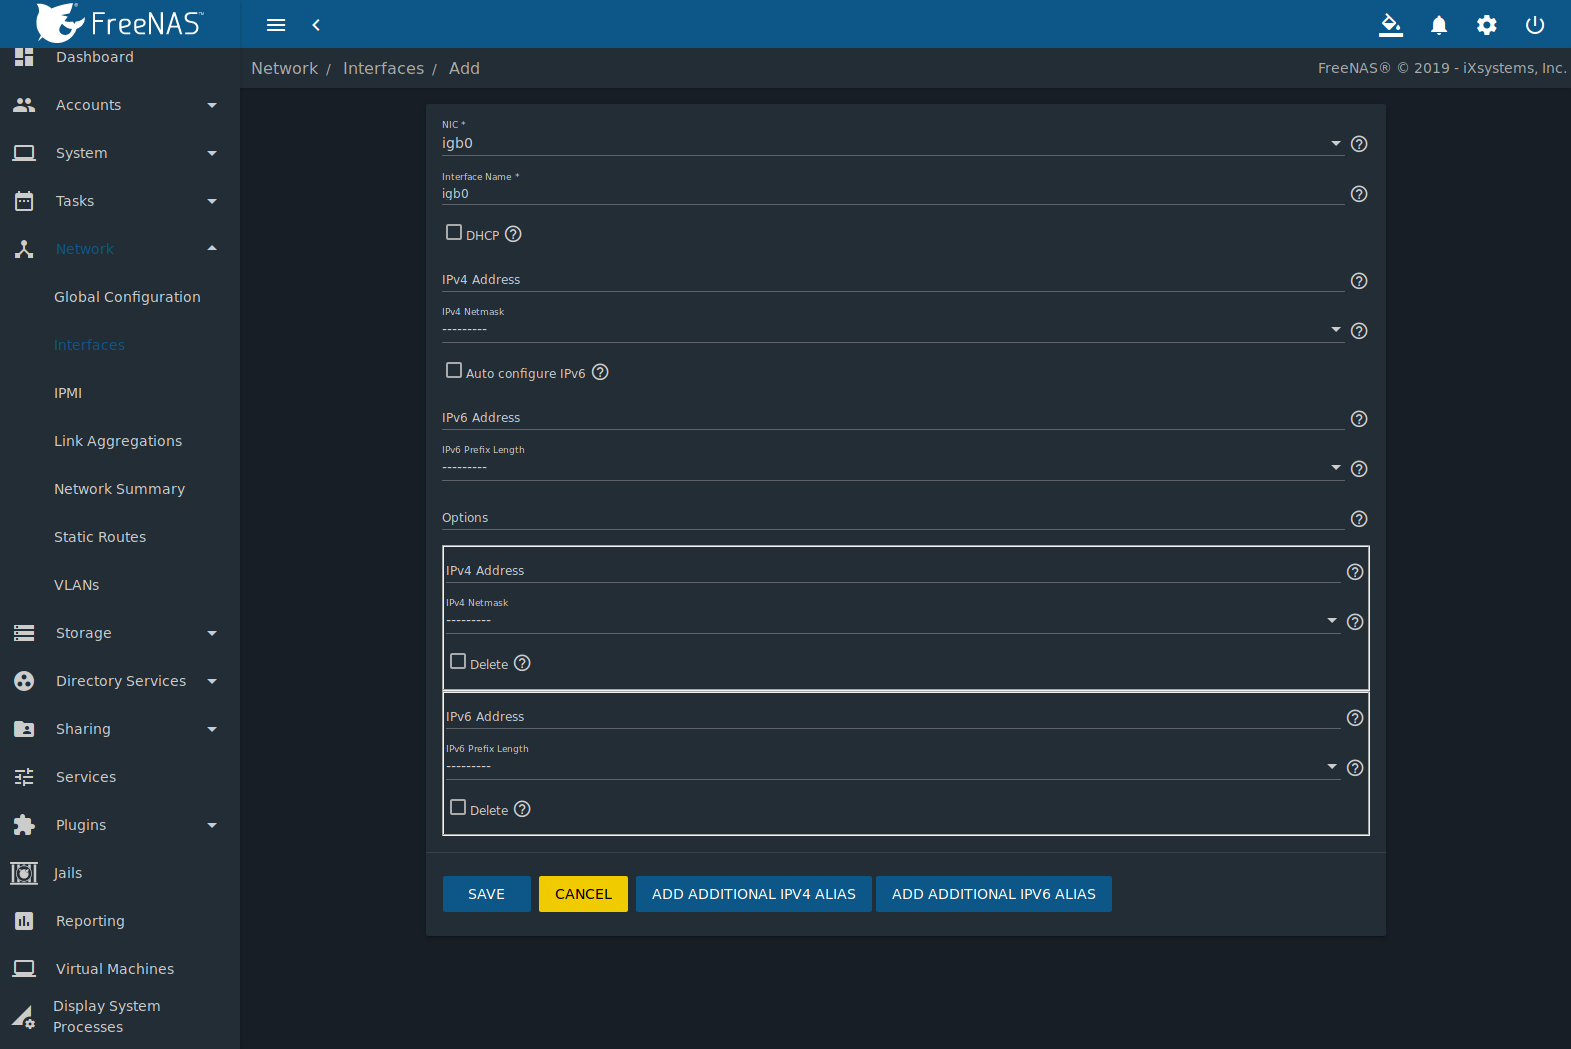
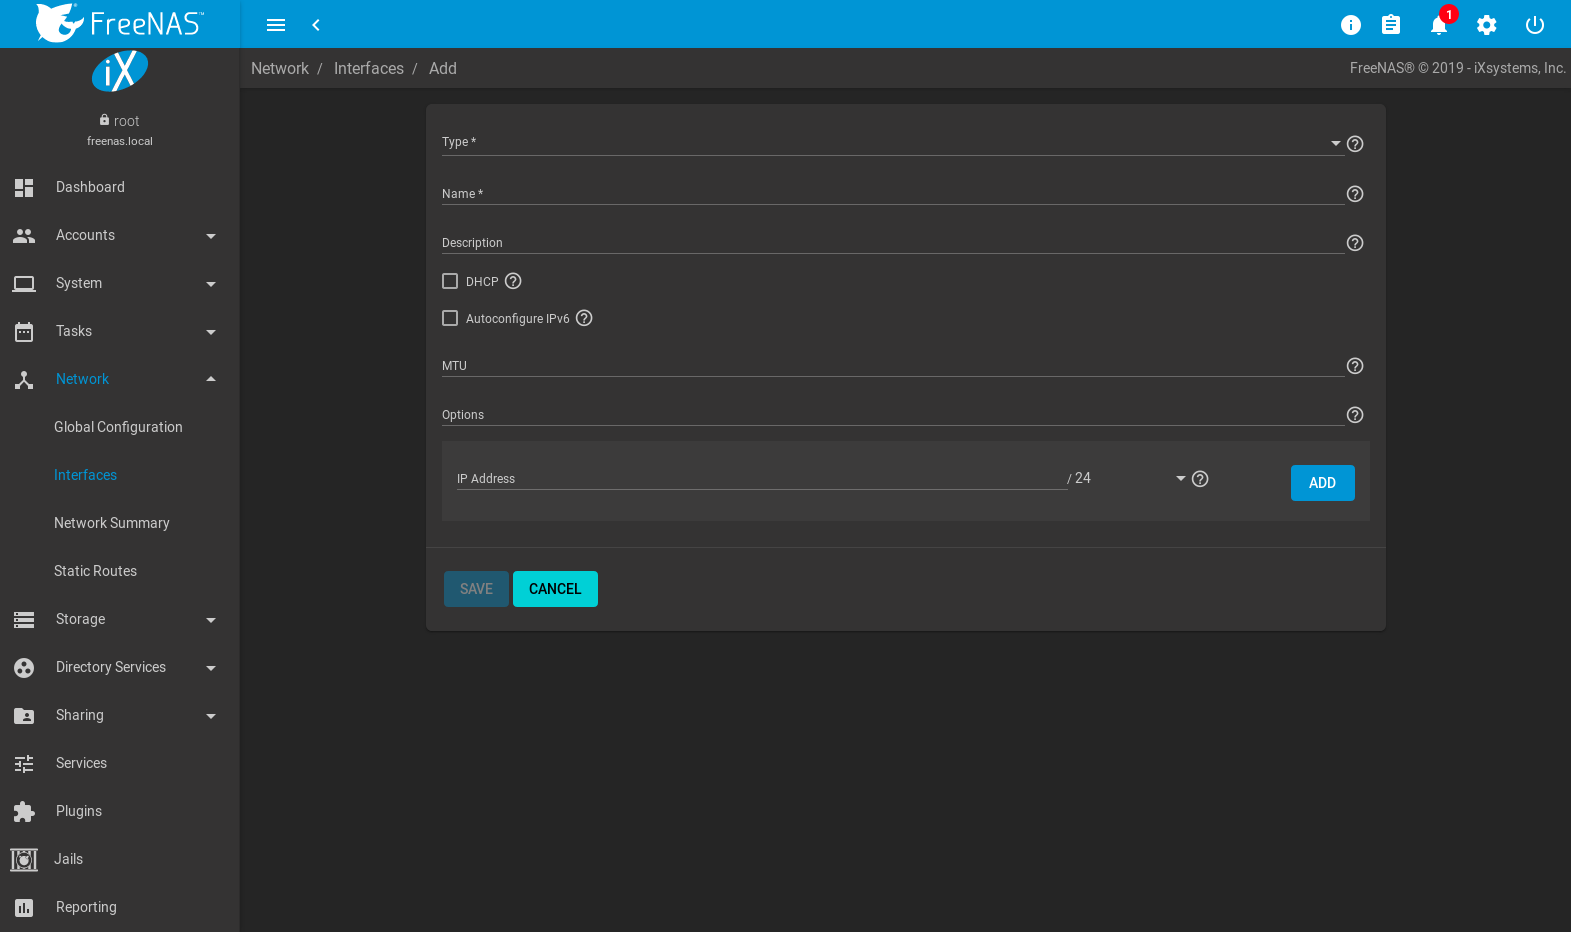
NAS-102000: Update text about configuring multiple IP addresses - Update button labels - Update related image - HTML build test: no issues.

diff --git a/userguide/network.rst b/userguide/network.rst
@@ -255,8 +255,8 @@ which settings are available with each interface type.
    |                     |                |             |                                                                                                           |
    +---------------------+----------------+-------------+-----------------------------------------------------------------------------------------------------------+
    | IP Address          | integer and    | All         | Static IPv4 or IPv6 address and subnet mask. Example: *10.0.0.3* and *22*. Click                          |
-   |                     | drop-down menu |             | :guilabel:`ADD ADDITIONAL ALIAS` to set multiple IP addresses. Clicking                                   |
-   |                     |                |             | :guilabel:`REMOVE ADDITIONAL ALIAS` deletes the bottom :guilabel:`IP Address`.                            |
+   |                     | drop-down menu |             | :guilabel:`ADD` to set multiple IP addresses. Clicking :guilabel:`DELETE` removes the related             |
+   |                     |                |             | :guilabel:`IP Address`.                                                                                   |
    +---------------------+----------------+-------------+-----------------------------------------------------------------------------------------------------------+
 
 
